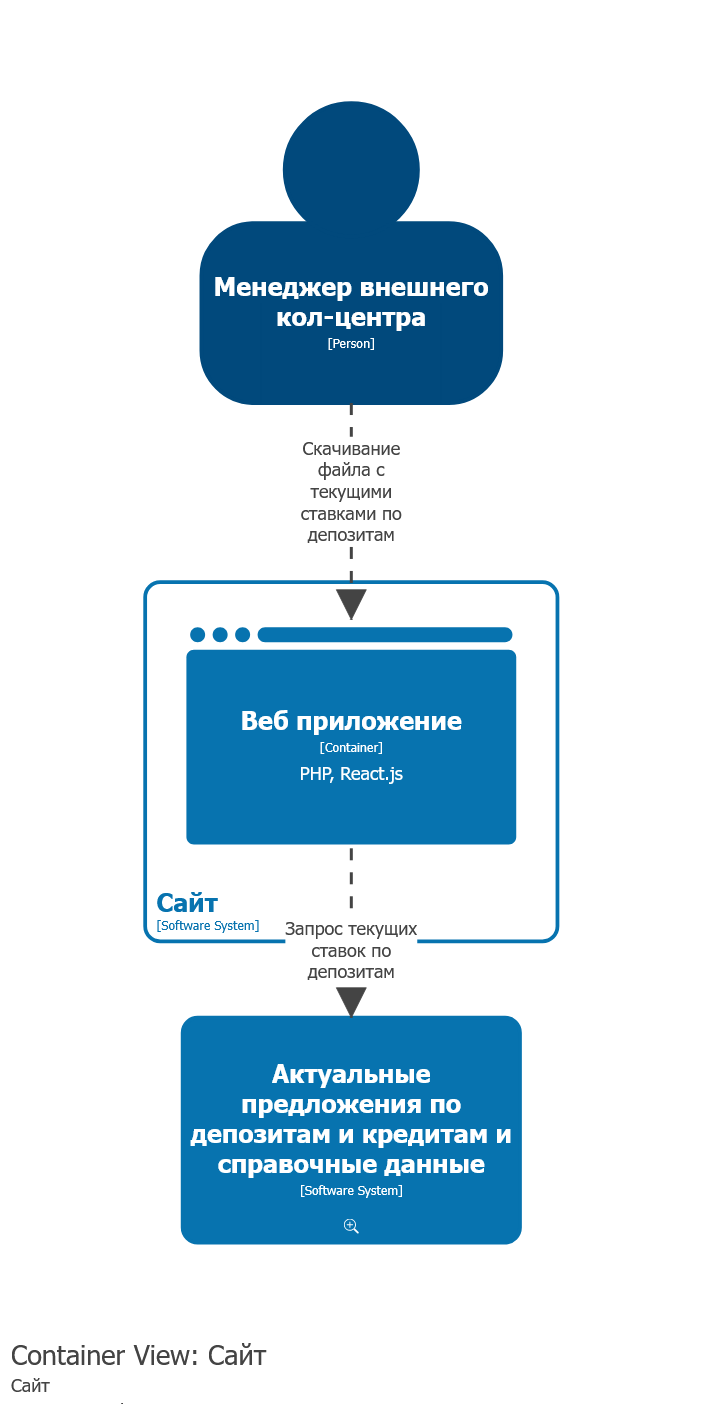
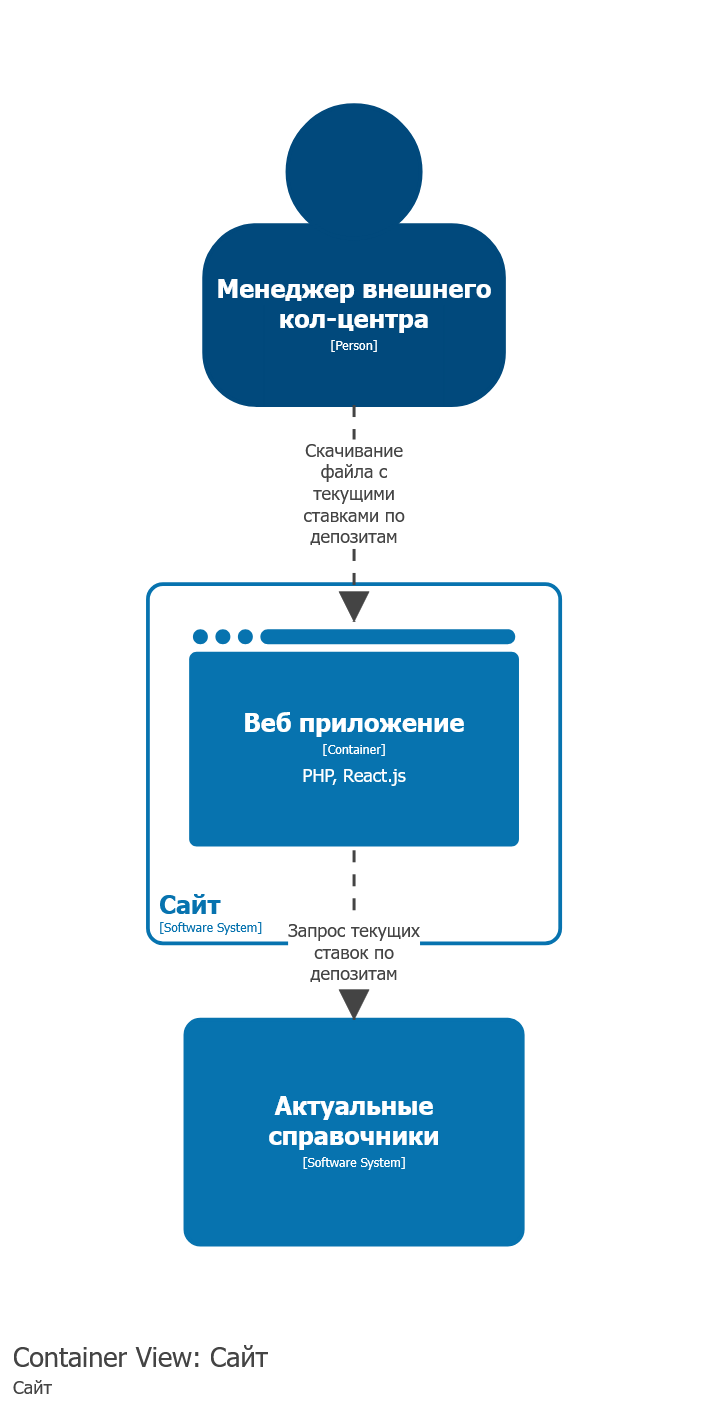
Задание 4

diff --git a/Task4/ADR-actual-rates-sending-mvp.md b/Task4/ADR-actual-rates-sending-mvp.md
@@ -4,14 +4,13 @@
 ### <a name="_3bfxc9a45514"></a>**Функциональные требования**
 
 
-| **№** | **Действующие лица или системы**                                                                                                                      | **Use Case**                            | **Описание**                                                                                                                                                                                                                                                                                                                                                                                                                                                                |
-|:-----:|:------------------------------------------------------------------------------------------------------------------------------------------------------|:----------------------------------------|:----------------------------------------------------------------------------------------------------------------------------------------------------------------------------------------------------------------------------------------------------------------------------------------------------------------------------------------------------------------------------------------------------------------------------------------------------------------------------|
-|  UC1  | Менеджер системы кол-центра,<br/>Система кол-центра (в контуре банка),<br/>Система актуальных предложений по депозитам и кредитам и справочные данные | Передача ставок во внутренний кол-центр | *Предусловие: Менеджер системы кол-центра авторизован в системе кол-центра.*<br/>1. Менеджер системы кол-центра заходит на страницу, на которой должны быть отображены текущие ставки по депозитам.<br/>2. Система кол-центра обращается к системе актуальных предложений по депозитам и кредитам и справочные данные и запрашивает актуальные ставки (предложения) по депозитам.<br/>3. Система кол-центра отображает менеджеру кол-центра актуальные ставки по депозитам. |
-| UC2   | Внешняя система кол-центра,<br/>Менеджер внешней системы кол-центра,<br/>Сайт                                                                         | Передача ставок во внешний кол-центр    | *Предусловие: Менеджер внешней системы кол-центра авторизован в системе кол-центра.*<br/>1. Менеджер внешней системы заходит на страницу, где отображается ссылка на сайт банка для загрузки файла с текущими ставками по депозитам.<br/>2. Менеджер внешней системы нажимает на ссылку и загружает файл в требуемом формате (.xls, .pdf, .doc) с текущими ставками по депозитам. |
+| **№** | **Действующие лица или системы**                                                                            | **Use Case**                            | **Описание**                                                                                                                                                                                                                                                                                                                                                                                                                                                                |
+|:-----:|:------------------------------------------------------------------------------------------------------------|:----------------------------------------|:----------------------------------------------------------------------------------------------------------------------------------------------------------------------------------------------------------------------------------------------------------------------------------------------------------------------------------------------------------------------------------------------------------------------------------------------------------------------------|
+| UC1  | Менеджер системы кол-центра,<br/>Система кол-центра (в контуре банка),<br/>Система - актуальные справочники | Передача ставок во внутренний кол-центр | *Предусловие: Менеджер системы кол-центра авторизован в системе кол-центра.*<br/>1. Менеджер системы кол-центра заходит на страницу, на которой должны быть отображены текущие ставки по депозитам.<br/>2. Система кол-центра обращается к системе актуальных предложений по депозитам и кредитам и справочные данные и запрашивает актуальные ставки (предложения) по депозитам.<br/>3. Система кол-центра отображает менеджеру кол-центра актуальные ставки по депозитам. |
+| UC2   | Менеджер внешней системы кол-центра,<br/>Сайт                                                     | Передача ставок во внешний кол-центр    | 1. Менеджер внешней системы кол-центра заходит на сайт банка, где отображается ссылка для загрузки файла с текущими ставками по депозитам.<br/>2. Менеджер внешней системы нажимает на ссылку и загружает файл в требуемом формате (.xls, .pdf, .doc) с текущими ставками по депозитам.                                                                                                      |
 
 ### <a name="_u8xz25hbrgql"></a>**Нефункциональные требования**
-Опишите здесь нефункциональные требования и архитектурно значимые требования.
-
+О
 | **№** | **Требование** |
 |:-----:|:---------------|
 |  +R   | Нет возможности сделать API-вызовы (например, через SFTP-протокол).               |
@@ -22,21 +21,19 @@
 - [Container Diagram: Сайт](container-diagram-site.png)
 - [Context Diagram: Система кол-центра](context-diagram-call-center.png)
 - [Container Diagram: Система кол-центра](container-diagram-call-center.png)
-- [Context Diagram: Система актуальных предложений по депозитам и кредитам и справочные данные](context-diagram-actual-rates.png)
-- [Container Diagram: Система актуальных предложений по депозитам и кредитам и справочные данные](container-diagram-actual-rates.png)
 
-Необходимы доработки сайта, системы кол-центра на стороне банка и внешней системы кол-центра.
+Необходимы доработки сайта, системы кол-центра на стороне банка и, возможно, внешней системы кол-центра.
 - Все изменения в рамках используемых в этих системах технологий и стандартов.
-- Система актуальных предложений по депозитам и кредитам и справочные данные уже была реализована ранее.
-- Внешняя система кол-центра не может работать через API.
+- Система актуальных справочников уже была спроектирована ранее.
+- Внешняя система кол-центра не может работать через API, поэтому менеджеры при необходимости могут скачать файл с актуальными ставками по депозитам с сайта банка.
 
 ### <a name="_bjrr7veeh80c"></a>**Альтернативы**
 1. Система кол-центра на стороне банка могла бы получть информацию о ставках прямо из АБС, но это решение увеличит нагрузку на АБС и время ответа.
-2. Данные о ставках можно было бы присылать по електронной почте сотруднику внешней системы, но это решение не полностью автоматизированное.
+2. Данные о ставках можно было бы присылать по електронной почте сотруднику внешней системы, но придется дополнительно поручить эту задачу сотруднику банка.
 
 **Недостатки, ограничения, риски**
 1. Синхронный обмен в случае отказа одной из систем может привести к полному отказу сайта или сбой в работе кол-центра.
-2. Предполагается, что на рабочем месте менеджера внешней системы кол-центра есть доступ в интернет.
+2. На рабочем месте менеджера внешней системы кол-центра должен быть доступ в интернет.
 
 
 
